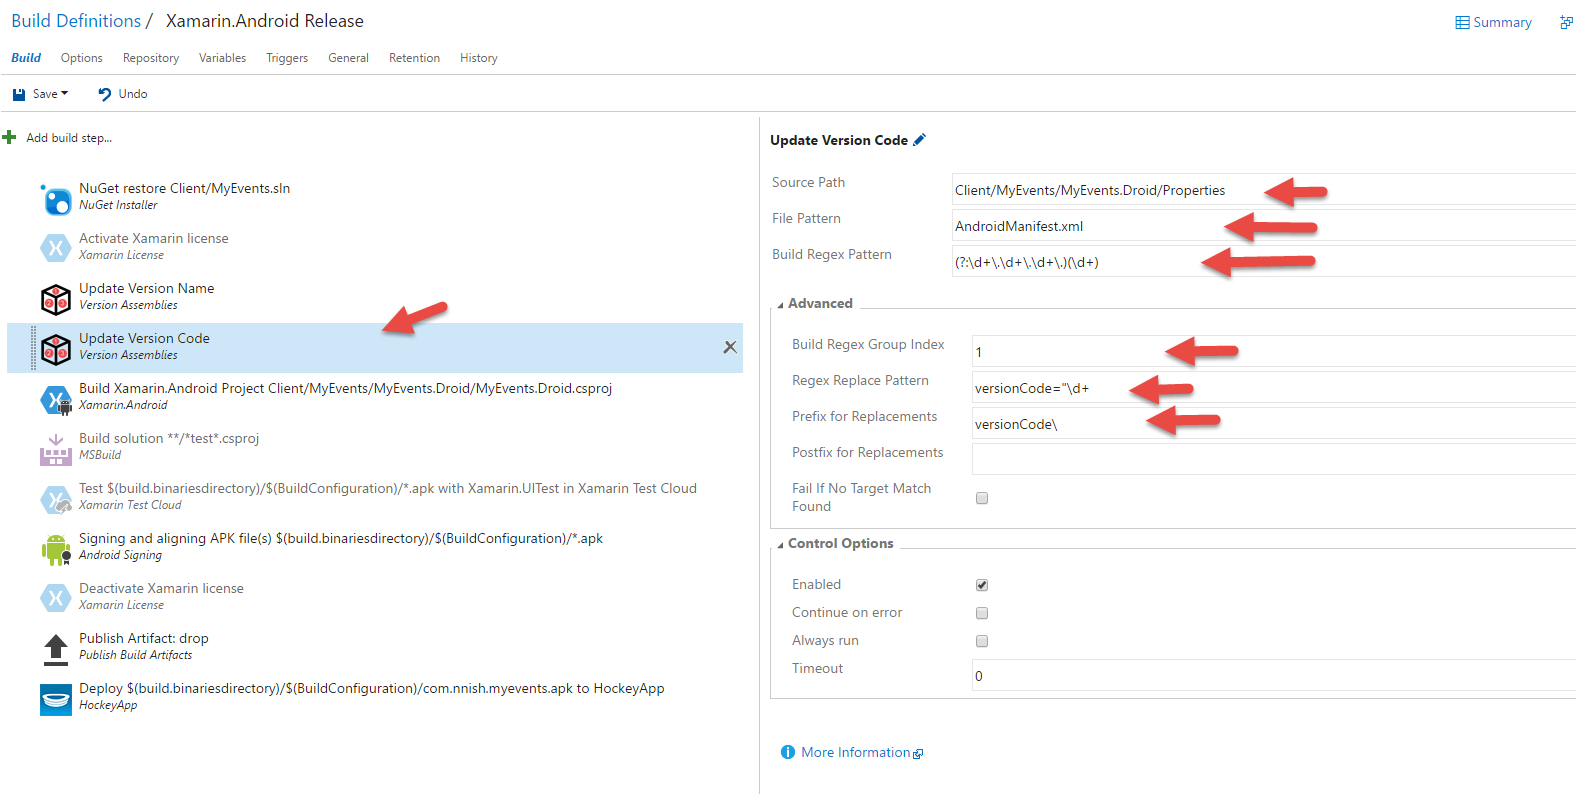
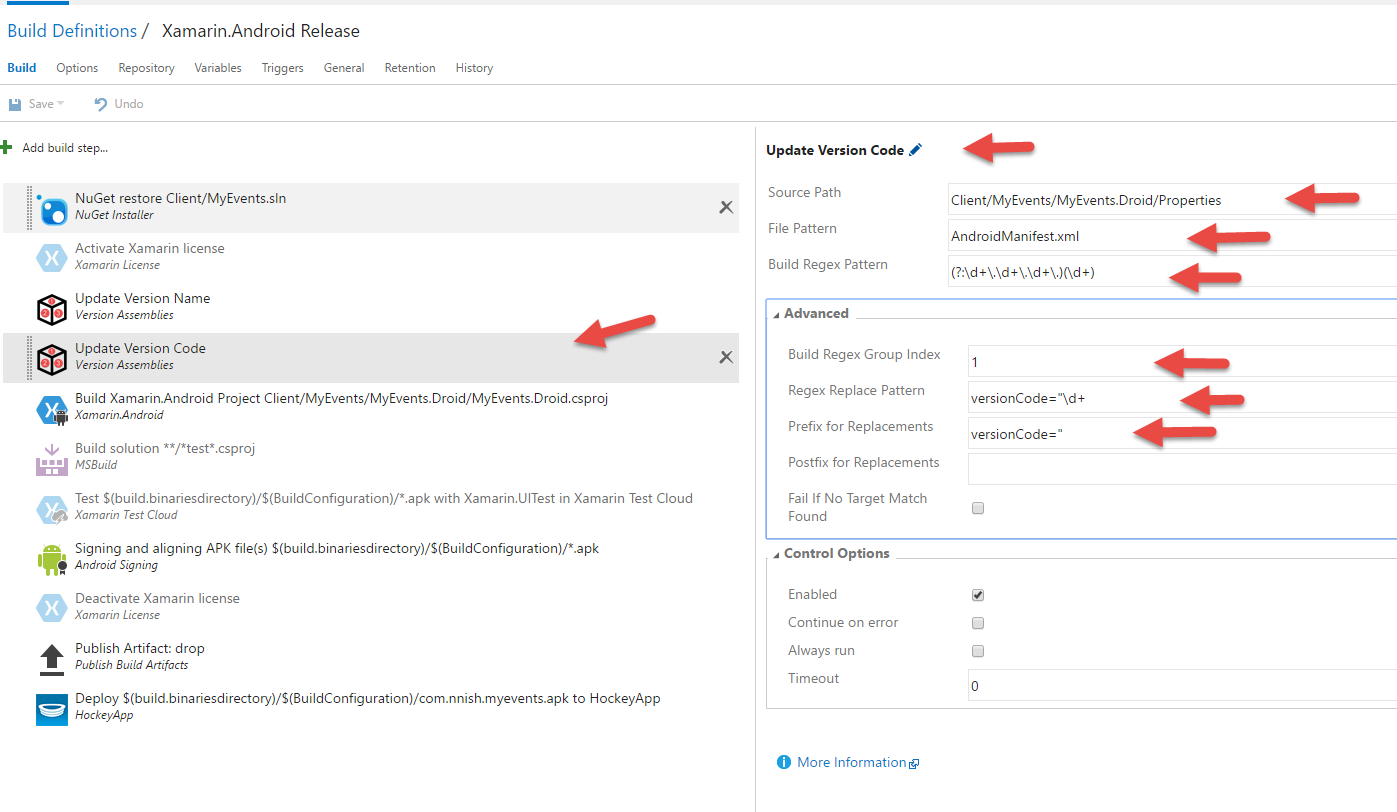
Version Assemblies

diff --git a/03 DevOps-Labs/README.md b/03 DevOps-Labs/README.md
@@ -168,6 +168,75 @@ Go to HockeyApp and you should see your app being listed there.
 
 ![](https://raw.githubusercontent.com/nishanil/Dev-Days-HOL/master/03%20DevOps-Labs/screenshots/HockeyApp-FinalDash.png)
 
+#### Versioning Assemblies
+
+Android **.apks** are versioned based on the values set inside the **AndroidManifest.xml** file. 
+
+Two settings are available, and you should always define values for both of them:
+
+* `versionCode` — An integer used as an internal version number. 
+* `versionName` — A string used as the version number shown to users.
+
+ When releasing packages, it is best practice to version the package to match the build number so that it is easy to track. Since VSTS takes care of builds, its best to add a **Build Step** to update the manifest file with the running build number. To do do this, you need to install an extension from the VSTS marketplace 
+ first.
+
+##### Format Build number
+
+Since we rely on the build number to be the verion number for our apps, let's edit them to an appropriate format. We will later use a regex pattern to strip out the last digits to append to our version number.
+
+Go to **General** tab and edit the build number format to `1.0.0$(rev:.r)` and **Save**
+
+![](https://raw.githubusercontent.com/nishanil/Dev-Days-HOL/master/03%20DevOps-Labs/screenshots/Version-Assemblies-4.png)
+
+##### Installing an Extension from the VSTS Marketplace
+
+>Note: You can always do this using a PowereShell script or a bat script. However, it's always a good practice to search for one in the marketplace.
+
+In the upper right corner of your VSTS dashboard, click the Basket icon and select **Browse Marketplace**.
+
+![](https://raw.githubusercontent.com/nishanil/Dev-Days-HOL/master/03%20DevOps-Labs/screenshots/Version-Assemblies-0.png)
+
+Search for `Version Assemblies` and install the `Colin's ALM Corner Build Tasks`
+
+![](https://raw.githubusercontent.com/nishanil/Dev-Days-HOL/master/03%20DevOps-Labs/screenshots/Version-Assemblies.png)
+
+**Add VersionName Step**
+
+Now, click **Add Build Step** and add the `Version Assemblies` task and place it right before the build task.
+
+![](https://raw.githubusercontent.com/nishanil/Dev-Days-HOL/master/03%20DevOps-Labs/screenshots/Version-Assemblies-2.png)
+
+* Source Path: (browse to the `properties` folder right inside the droid project)
+* File Pattern: `AndroidManifest.xml`
+* Build Regex Pattern: `(?:\d+\.\d+\.\d+\.)(\d+)`
+* In the Advanced Section
+    * Build Regex Group Index: `0`
+    * Regex Replace Pattern: `versionName="\d+\.\d+\.\d+`
+    * Prefix for Replacements: `versionName="`
+* Edit build step name as `Update Version Name` for understanding
+
+**Add VersionCode Step**
+
+Click **Add Build Step** again and add the same `Version Assemblies` task and place it right after the `Update Version Name` task. 
+
+![](https://raw.githubusercontent.com/nishanil/Dev-Days-HOL/master/03%20DevOps-Labs/screenshots/Version-Assemblies-3.png)
+
+* Source Path: (browse to the `properties` folder right inside the droid project)
+* File Pattern: `AndroidManifest.xml`
+* Build Regex Pattern: `(?:\d+\.\d+\.\d+\.)(\d+)`
+* In the Advanced Section
+    * Build Regex Group Index: `1`
+    * Regex Replace Pattern: `versionCode="\d+`
+    * Prefix for Replacements: `versionCode="`
+* Edit build step name as `Update Version Code` for understanding
+
+Save the steps & Queue a new build.
+
+That's it. When the build completes, head over to HockeyApp and check if the `versionName` and `versionCode` are updated accordingly.
+
+![](https://raw.githubusercontent.com/nishanil/Dev-Days-HOL/master/03%20DevOps-Labs/screenshots/Version-Assemblies-5.png)
+
+
 #### Test them on Device
 
 To test them on real devices, you need to install HockeyApp onto them. The steps here list how to install hockey app on an emulator, however, we recommend that you use your Android phone.
@@ -186,7 +255,10 @@ Once you login, Download the HockeyApp for Android.
 
 ![](https://raw.githubusercontent.com/nishanil/Dev-Days-HOL/master/03%20DevOps-Labs/screenshots/Hockey-App-RegisterDevice-3.png)
 
+
 That's it. Now install the HockeyApp that was downloaded and run the app. Login with your credentials and you will see the MyEvents app being listed there. You can send this link to your beta testers and they will be notified whenever a new build happens.
+
+
 
 ### Great Reads
 
